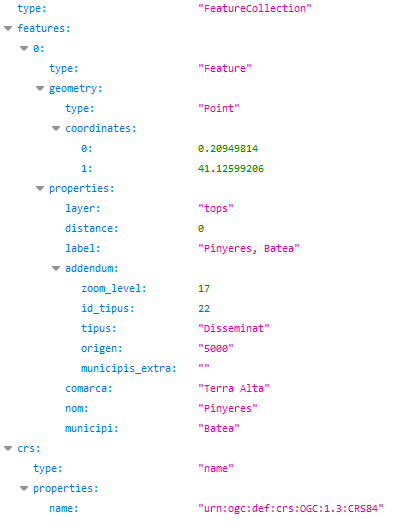
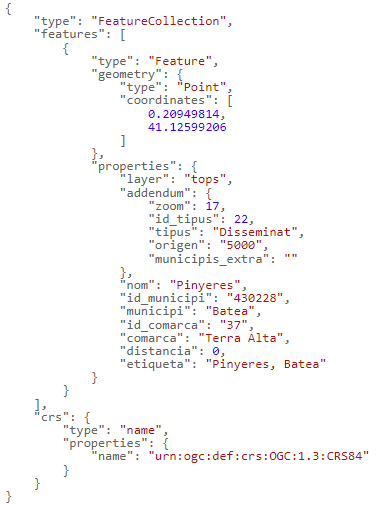
Deployed dc7b0e4 with MkDocs version: 1.5.3

diff --git a/parametres_cerca.es/index.html b/parametres_cerca.es/index.html
@@ -1397,14 +1397,24 @@
 <td>Todos</td>
 </tr>
 <tr>
-<td><strong>municipi</strong></td>
+<td><strong>municipo</strong></td>
 <td>Municipio. En algunos topónimos, no hay un municipio asignado y toma el valor "-"</td>
+<td>Todos</td>
+</tr>
+<tr>
+<td><strong>id_municipi</strong></td>
+<td>Identificador del municipio. En algunos topónimos, no hay un municipio assignado y toma el valor ""</td>
 <td>Todos</td>
 </tr>
 <tr>
 <td><strong>comarca</strong></td>
 <td>Comarca. En algunos topónimos, no hay una comarca asignada y toma el valor "-"</td>
 <td>Direcciones</td>
+</tr>
+<tr>
+<td><strong>id_comarca</strong></td>
+<td>Identificador de la comarca. En algunos topónimos, no hay una comarca assignada y toma el valor ""</td>
+<td>Todos</td>
 </tr>
 <tr>
 <td><strong><em>llogaret</em></strong></td>
@@ -1420,6 +1430,11 @@
 <td><strong>nom</strong></td>
 <td>Nombre de la calle, de la edificación aislada o del topónimo</td>
 <td>Todos</td>
+</tr>
+<tr>
+<td><strong>tipus_via</strong></td>
+<td>Tipo de calle</td>
+<td>Direcciones</td>
 </tr>
 <tr>
 <td><strong>codi_postal</strong></td>
@@ -1480,7 +1495,7 @@
 <td><a href="https://eines.icgc.cat/geocodificador/cerca?text=nou%2010%20girona&amp;layers=address&amp;size=1" target="_blank">https://eines.icgc.cat/geocodificador/cerca?text=nou%2010%20girona&amp;layers=address&amp;size=1</a></td>
 </tr>
 <tr>
-<td><img alt="" src="../img/autocompletar-address.png" /></td>
+<td><img alt="" src="../img/cerca-adreces.png" /></td>
 </tr>
 </tbody>
 </table>
@@ -1492,10 +1507,10 @@
 </thead>
 <tbody>
 <tr>
-<td><a href="https://eines.icgc.cat/geocodificador/cerca?text=barranc%20de%20Barball&amp;layers=tops&amp;size=1" target="_blank">https://eines.icgc.cat/geocodificador/cerca?text=barranc%20de%20Barball&amp;layers=tops&amp;size=1</a></td>
+<td><a href="https://eines.icgc.cat/geocodificador/cerca?text=el%20tibidabo%20,Barcelona&amp;layers=tops&amp;size=1&amp;layers=tops&amp;size=1" target="_blank">https://eines.icgc.cat/geocodificador/cerca?text=el%20tibidabo%20,Barcelona&amp;layers=tops&amp;size=1</a></td>
 </tr>
 <tr>
-<td><img alt="" src="../img/autocompletar-tops.png" /></td>
+<td><img alt="" src="../img/cerca-top.png" /></td>
 </tr>
 </tbody>
 </table>

diff --git a/parametres_autocompletar.es/index.html b/parametres_autocompletar.es/index.html
@@ -1405,13 +1405,23 @@
 </tr>
 <tr>
 <td><strong>municipo</strong></td>
-<td>Municipio. En algunos topónimos , no hay un municipio asignado y toma el valor "-"</td>
+<td>Municipio. En algunos topónimos, no hay un municipio asignado y toma el valor "-"</td>
+<td>Todos</td>
+</tr>
+<tr>
+<td><strong>id_municipi</strong></td>
+<td>Identificador del municipio. En algunos topónimos, no hay un municipio assignado y toma el valor ""</td>
 <td>Todos</td>
 </tr>
 <tr>
 <td><strong>comarca</strong></td>
-<td>Comarca. En algunos topónimos , no hay una comarca asignada y toma el valor "-"</td>
+<td>Comarca. En algunos topónimos, no hay una comarca asignada y toma el valor "-"</td>
 <td>Direcciones</td>
+</tr>
+<tr>
+<td><strong>id_comarca</strong></td>
+<td>Identificador de la comarca. En algunos topónimos, no hay una comarca assignada y toma el valor ""</td>
+<td>Todos</td>
 </tr>
 <tr>
 <td><strong><em>llogaret</em></strong></td>
@@ -1427,6 +1437,11 @@
 <td><strong>nom</strong></td>
 <td>Nombre de la calle, de la edificación aislada o de topónimo</td>
 <td>Todos</td>
+</tr>
+<tr>
+<td><strong>tipus_via</strong></td>
+<td>Tipo de calle</td>
+<td>Direcciones</td>
 </tr>
 <tr>
 <td><strong>codi_postal</strong></td>
@@ -1494,7 +1509,7 @@
 </thead>
 <tbody>
 <tr>
-<td><a href="#https://herramientas.icgc.cat/geocodificador/autocompletar?texto=Barranco%20de%20Barball&amp;layers=tops&amp;size=1" target="_blank">https://eines.icgc.cat/geocodificador/autocompletar?text=barranc%20de%20Barball&amp;layers=tops&amp;size=1</a></td>
+<td><a href="https://eines.icgc.cat/geocodificador/autocompletar?text=serra%20de%20pava&amp;layers=tops&amp;size=1" target="_blank">https://eines.icgc.cat/geocodificador/autocompletar?text=serra%20de%20pava&amp;layers=tops&amp;size=1</a></td>
 </tr>
 <tr>
 <td><img alt="" src="../img/autocompletar-tops.png" /></td>

diff --git a/parametres_invers.es/index.html b/parametres_invers.es/index.html
@@ -1311,14 +1311,24 @@
 <td>Todos</td>
 </tr>
 <tr>
-<td><strong>municipi</strong></td>
-<td>Municipio. En algunos topónimos , no hay un municipio asignado y toma el valor "-"</td>
+<td><strong>municipo</strong></td>
+<td>Municipio. En algunos topónimos, no hay un municipio asignado y toma el valor "-"</td>
+<td>Todos</td>
+</tr>
+<tr>
+<td><strong>id_municipi</strong></td>
+<td>Identificador del municipio. En algunos topónimos, no hay un municipio assignado y toma el valor ""</td>
 <td>Todos</td>
 </tr>
 <tr>
 <td><strong>comarca</strong></td>
-<td>Comarca. En algunos topónimos , no hay una comarca asignada y toma el valor "-"</td>
+<td>Comarca. En algunos topónimos, no hay una comarca asignada y toma el valor "-"</td>
 <td>Direcciones</td>
+</tr>
+<tr>
+<td><strong>id_comarca</strong></td>
+<td>Identificador de la comarca. En algunos topónimos, no hay una comarca assignada y toma el valor ""</td>
+<td>Todos</td>
 </tr>
 <tr>
 <td><strong><em>llogaret</em></strong></td>
@@ -1334,6 +1344,11 @@
 <td><strong>nom</strong></td>
 <td>Nombre de la calle, de la edificación aislada o de topónimo</td>
 <td>Todos</td>
+</tr>
+<tr>
+<td><strong>tipus_via</strong></td>
+<td>Tipo de calle</td>
+<td>Direcciones</td>
 </tr>
 <tr>
 <td><strong>codi_postal</strong></td>

diff --git a/ex_integracio/index.html b/ex_integracio/index.html
@@ -78,7 +78,7 @@
     <div data-md-component="skip">
       
         
-        <a href="#16-otros-ejemplos-de-integracion-del-geocodificador-icgc" class="md-skip">
+        <a href="#111-otros-ejemplos-de-integracion-del-geocodificador-icgc" class="md-skip">
           Saltar a contenido
         </a>
       
@@ -1033,7 +1033,7 @@
   
 
 
-<h1 id="16-otros-ejemplos-de-integracion-del-geocodificador-icgc">1.6 Otros ejemplos de integración del Geocodificador ICGC</h1>
+<h1 id="111-otros-ejemplos-de-integracion-del-geocodificador-icgc">1.11 Otros ejemplos de integración del Geocodificador ICGC</h1>
 <p>El visor <a href="https://eines.icgc.cat/geocodificador_visor/" target="_blank">https://eines.icgc.cat/geocodificador_visor/</a> integra el servicio API de geocodificación ICGC utilizando la librería Leaflet.</p>
 <p>A continuación se muestran otros ejemplos de visores de cómo integrar el servicio en sus aplicaciones con diferentes tecnologías:</p>
 <p><strong>Visor simple de ejemplo - Mapbox</strong></p>

diff --git a/index.html b/index.html
@@ -1213,6 +1213,7 @@
 <li><a href="ex_area.es/">1.8 Restringir la búsqueda dentro de un área geográfica circular o rectangular</a></li>
 <li><a href="ex_tipus.es/">1.9 Filtrar según tipo de topónimo</a></li>
 <li><a href="ex_comarca_municipi.es/">1.10 Filtrar por comarca o por municipio</a></li>
+<li><a href="ex_integracio/">1.11 Otros ejemplos de integración</a></li>
 </ul>
 <h2 id="visor">Visor</h2>
 <p><a href="visor.es/">Visor</a></p>
